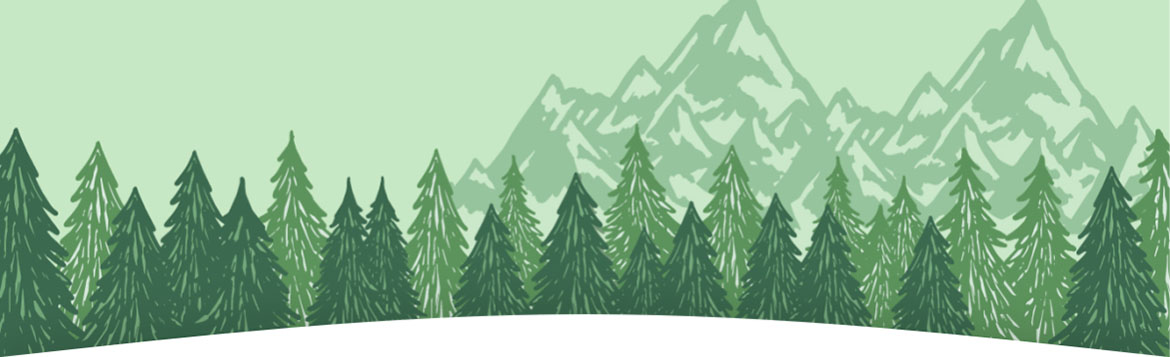
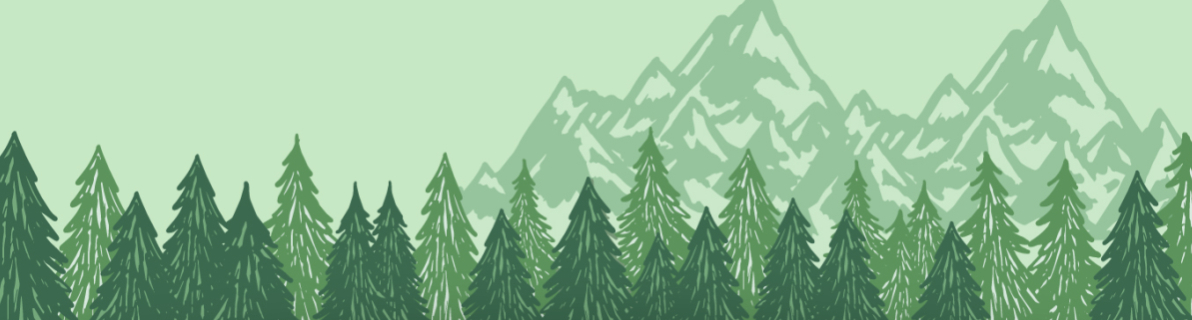
Create parallax effect on header
Task: https://trello.com/c/oIULYDdR

diff --git a/app/index.html b/app/index.html
@@ -11,79 +11,91 @@
 </head>
 <body ng-app="app">
 
-<header class="lp-header container">
-    <!--top row-->
-    <div class="lp-header__top-row row">
-        <!--block with logo-->
-        <h1 class="lp-header__logo-block col-sm-3">
-            <a href="#/">
-                <img class="lph-logo" src="./static/vendor/images/logo.png" alt="Логотип сайту">
-            </a>
-        </h1>
-        <!--block with site description and sign-in-->
-        <div class="col-sm-9">
-            <div class="row">
-                <!--description block-->
-                <div class="lp-header__description-block col-sm-6 col-md-7">
-                    <h2 class="lp-header__title lph-title">тут потім</h2>
-                    <span class="lp-header__slogan lph-slogan">буде текст</span>
-                </div>
-                <!--sign-in block-->
-                <ul class="lp-header__auth-block col-sm-6 col-md-5">
-                    <li class="lp-header__register">
-                        <a href="#/register" class="lph-link">реєстрація</a>
-                    </li>
-                    <li class="lp-header__signin">
-                        <a href="#/login" class="lph-btn">вхід</a>
-                    </li>
-                </ul>
-            </div>
-        </div>
+<header class="lp-header">
+
+    <!-- Parallax -->
+    <div class="rr-parallax-wrapper">
+        <div class="rr-parallax-tree-front"></div>
+        <div class="rr-parallax-tree-middle"></div>
+        <div class="rr-parallax-rocks"></div>
     </div>
-    <!-- navigation -->
-    <nav class="lp-header__nav navbar navbar-default lph-nav" role="navigation">
-        <div class="container-fluid">
-            <!--service block to create mobile menu-->
-            <div class="navbar-header">
-                <button type="button" class="navbar-toggle" data-toggle="collapse" data-target=".navbar-collapse">
-                    <span class="sr-only">Toggle navigation</span>
-                    <span class="icon-bar"></span>
-                    <span class="icon-bar"></span>
-                    <span class="icon-bar"></span>
-                </button>
-                <!--this block visible only in mobile version-->
-                <div class="lph-nav__mobile-title visible-xs">
-                    <a class="lph-title lph-title_small" href="javascript:void(0);">Royal-Rangers</a>
+    <!-- ./Parallax -->
+
+    <div class="container">
+        <!--top row-->
+        <div class="lp-header__top-row row">
+            <!--block with logo-->
+            <h1 class="lp-header__logo-block col-sm-3">
+                <a href="#/">
+                    <img class="lph-logo" src="./static/vendor/images/rr-logo.svg" alt="Логотип сайту">
+                </a>
+            </h1>
+            <!--block with site description and sign-in-->
+            <div class="col-sm-9">
+                <div class="row">
+                    <!--description block-->
+                    <div class="lp-header__description-block col-sm-6 col-md-7">
+                        <h2 class="lp-header__title lph-title">тут потім</h2>
+                        <span class="lp-header__slogan lph-slogan">буде текст</span>
+                    </div>
+                    <!--sign-in block-->
+                    <ul class="lp-header__auth-block col-sm-6 col-md-5">
+                        <li class="lp-header__register">
+                            <a href="#/register" class="lph-link">реєстрація</a>
+                        </li>
+                        <li class="lp-header__signin">
+                            <a href="#/login" class="lph-btn">вхід</a>
+                        </li>
+                    </ul>
                 </div>
             </div>
-            <!--menu items-->
-            <div class="navbar-collapse collapse">
-                <ul class="nav navbar-nav navbar-right">
-                    <li class="lph-nav__item visible-xs">
-                        <a class="lph-link lph-link_size_small lph-link_alert" href="#/register">Реєстрація</a>
-                    </li>
-                    <li class="lph-nav__item visible-xs">
-                        <a class="lph-link lph-link_size_small" href="#/login">Вхід</a>
-                    </li>
-                    <li class="lph-nav__item">
-                        <a class="lph-link lph-link_size_small" href="#/aboutUs">Про нас</a>
-                    </li>
-                    <li class="lph-nav__item">
-                        <a class="lph-link lph-link_size_small" href="#/aboutProject">Суть проекту</a>
-                    </li>
-                    <li class="lph-nav__item">
-                        <a class="lph-link lph-link_size_small" href="#/howThisWork">Як це працює</a>
-                    </li>
-                    <li class="lph-nav__item">
-                        <a class="lph-link lph-link_size_small" href="#/locator">Локатор</a>
-                    </li>
-                </ul>
-            </div>
         </div>
-    </nav>
+        <!-- navigation -->
+        <nav class="lp-header__nav navbar navbar-default lph-nav" role="navigation">
+            <div class="container-fluid">
+                <!--service block to create mobile menu-->
+                <div class="navbar-header">
+                    <button type="button" class="navbar-toggle" data-toggle="collapse" data-target=".navbar-collapse">
+                        <span class="sr-only">Toggle navigation</span>
+                        <span class="icon-bar"></span>
+                        <span class="icon-bar"></span>
+                        <span class="icon-bar"></span>
+                    </button>
+                    <!--this block visible only in mobile version-->
+                    <div class="lph-nav__mobile-title visible-xs">
+                        <a class="lph-title lph-title_small" href="javascript:void(0);">Royal-Rangers</a>
+                    </div>
+                </div>
+                <!--menu items-->
+                <div class="navbar-collapse collapse">
+                    <ul class="nav navbar-nav navbar-right">
+                        <li class="lph-nav__item visible-xs">
+                            <a class="lph-link lph-link_size_small lph-link_alert" href="#/register">Реєстрація</a>
+                        </li>
+                        <li class="lph-nav__item visible-xs">
+                            <a class="lph-link lph-link_size_small" href="#/login">Вхід</a>
+                        </li>
+                        <li class="lph-nav__item">
+                            <a class="lph-link lph-link_size_small" href="#/aboutUs">Про нас</a>
+                        </li>
+                        <li class="lph-nav__item">
+                            <a class="lph-link lph-link_size_small" href="#/aboutProject">Суть проекту</a>
+                        </li>
+                        <li class="lph-nav__item">
+                            <a class="lph-link lph-link_size_small" href="#/howThisWork">Як це працює</a>
+                        </li>
+                        <li class="lph-nav__item">
+                            <a class="lph-link lph-link_size_small" href="#/locator">Локатор</a>
+                        </li>
+                    </ul>
+                </div>
+            </div>
+            <div class="rr-curve rr-header-curve"></div>
+        </nav>
+    </div>
 </header>
 
-<div class="container rr-container">
+<div class="rr-container">
     <div app-view-segment="0"></div>
 </div>
 
@@ -93,7 +105,7 @@
 
             <div class="rr-footer-logo">
                 <a href="/">
-                    <img src="./static/images/rr-logo.svg" alt="Royal Rangers"/>
+                    <img src="./static/vendor/images/rr-logo.svg" alt="Royal Rangers"/>
                 </a>
             </div>
 

diff --git a/app/static/sass/components/parallax.scss b/app/static/sass/components/parallax.scss
@@ -1,0 +1,56 @@
+$image-path:        './../images';
+$bg-parallax-base:  #c6e8c5;
+
+/**
+ * Return height of parallax box ( plus 23% of base height )
+ */
+@function fn-parallax-box-height ($height) {
+    @return $lph-height + (($lph-height * 24.5) / 100);
+}
+
+.rr-parallax-wrapper {
+    position: absolute;
+    height: $lph-height;
+    width: 100%;
+    overflow: hidden;
+
+    @media (min-width: $screen-lg-min) {
+        background-image: none;
+
+        .rr-parallax-tree-front, .rr-parallax-tree-middle, .rr-parallax-rocks {
+            position: absolute;
+            width: 100%;
+            height: fn-parallax-box-height($lph-height);
+            background-repeat: repeat-x;
+            background-position: bottom;
+        }
+
+        .rr-parallax-tree-front {
+            background-image: url("#{$image-path}/parallax-tree-front.png");
+            z-index: -1;
+        }
+
+        .rr-parallax-tree-middle {
+            background-image: url("#{$image-path}/parallax-tree-middle.png");
+            z-index: -2;
+        }
+
+        .rr-parallax-rocks {
+            background: url("#{$image-path}/parallax-rocks.png") $bg-parallax-base;
+            z-index: -3;
+            background-position: -70%;
+        }
+    }
+
+    @media (max-width: $screen-md-max) {
+        height: $lph-height-medium;
+        background-image: url('#{$image-path}/header-bg.jpg');
+        background-size: contain;
+        background-repeat: no-repeat;
+    }
+    @media (max-width: $screen-xs-max) {
+        height: $lph-height-mobile;
+        background-image: none;
+        background-color: $bg-parallax-base;
+    }
+}

diff --git a/app/static/sass/components/header.scss b/app/static/sass/components/header.scss
@@ -35,8 +35,7 @@ $lph-font-color: #000; //primary font color
 /*Styles to header panel*/
 .lp-header {
   height: $lph-height-mobile;
-  background: url("../../vendor/images/header-bg.jpg") 50% 80% no-repeat #fff;
-  background-size: 800px auto;
+
   &__top-row {
     display: none;
   }
@@ -148,8 +147,7 @@ $lph-font-color: #000; //primary font color
 
 /*Styles to logo image*/
 .lph-logo {
-  height: 100%;
-  width: auto;
+  width: 100%;
   cursor: default;
 }
 
@@ -250,7 +248,7 @@ $lph-font-color: #000; //primary font color
     height: $lph-height-small;
     background-position: 0 0;
     background-size: 100% auto;
-    margin-top: 10px;
+
     &__top-row {
       display: block;
       height: $lph-top-row-height-small;
@@ -340,7 +338,7 @@ $lph-font-color: #000; //primary font color
 
   .lp-header {
     height: $lph-height-medium;
-    margin-top: 15px;
+
     &__top-row {
       height: $lph-top-row-height-medium;
     }
@@ -423,7 +421,7 @@ $lph-font-color: #000; //primary font color
 
   .lp-header {
     height: $lph-height;
-    margin-top: 30px;
+
     &__top-row {
       height: $lph-top-row-height;
     }

diff --git a/gulpfile.js b/gulpfile.js
@@ -92,13 +92,13 @@ function copySass() {
 
     return gulp
         .src(src)
-        .pipe(sass())
+        .pipe(sass().on('error', sass.logError))
         .pipe(gulp.dest(dest))
 }
 
 
 function copyImages() {
-    let src = ['app/static/images/*.*'];
+    let src = ['app/static/images/**/*.*'];
     let dest = 'app/static/vendor/images/.';
 
     return gulp
@@ -131,3 +131,9 @@ gulp.task('rr-copy', gulp.series(
     copyFonts
 ));
 
+/**
+ * Watch and compile styles
+ */
+gulp.task('rr-sass:watch', function () {
+    gulp.watch('app/static/sass/**/*.scss', gulp.series(copySass));
+});

diff --git a/app/static/sass/components/styles.scss b/app/static/sass/components/styles.scss
@@ -1,0 +1,22 @@
+@media (min-width: $screen-lg-min) {
+    .rr-curve.rr-header-curve {
+        position: absolute;
+        width: 100%;
+        height: 50px;
+        bottom: 0;
+        overflow: hidden;
+        transform: rorate(180deg);
+
+        &:after {
+            display: block;
+            content: '';
+            position: absolute;
+            height: 100px;
+            left: -2%;
+            top: 25%;
+            width: 104%;
+            border-radius: 100%;
+            background-color: #fff;
+        }
+    }
+}

diff --git a/app/static/js/navbar-scrolling.js b/app/static/js/navbar-scrolling.js
@@ -3,9 +3,13 @@
 
 //this script enable pop-up menu
 $(window).scroll(function() {
+    var navbar = $(".lph-nav"),
+        curve = $('.rr-header-curve');
     if ($(window).scrollTop() > 500) {
-        $(".lph-nav").addClass("lph-nav_fixed_top");
+        navbar.addClass("lph-nav_fixed_top");
+        curve.removeClass('rr-curve');
     } else {
-        $(".lph-nav").removeClass("lph-nav_fixed_top");
+        navbar.removeClass("lph-nav_fixed_top");
+        curve.addClass('rr-curve');
     }
 });

diff --git a/app/static/js/rr-parallax.js b/app/static/js/rr-parallax.js
@@ -1,0 +1,11 @@
+(function ($) {
+    'use strict';
+
+    $(window).on('scroll', function () {
+        var scrolled = $(window).scrollTop();
+        if (scrolled < 350) {
+            $('.rr-parallax-tree-front').css('top',(0 - (scrolled * 0.25))+'px');
+            $('.rr-parallax-tree-middle').css('top',(0 - (scrolled * 0.15))+'px');
+        }
+    });
+}(jQuery));

diff --git a/app/home/home.html b/app/home/home.html
@@ -1,5 +1,5 @@
 <!-- Add only for testing -->
-<div class="container-fluid">
+<div class="container">
     <div id="myCarousel" class="carousel slide" data-ride="carousel">
         <!-- Indicators -->
         <ol class="carousel-indicators">

diff --git a/app/static/sass/app.scss b/app/static/sass/app.scss
@@ -12,6 +12,9 @@
 @import "components/video";
 @import "components/about-us";
 @import "components/slider";
+@import "components/parallax";
+@import "components/styles";
+@import "components/container";
 
 html, body {
   margin: 0;

diff --git a/app/static/sass/components/container.scss b/app/static/sass/components/container.scss
@@ -1,6 +1,5 @@
 /** Main Container */
 
 .rr-container {
-  padding: 0;
-  font-size: larger;
+  margin-top: 30px;
 }
